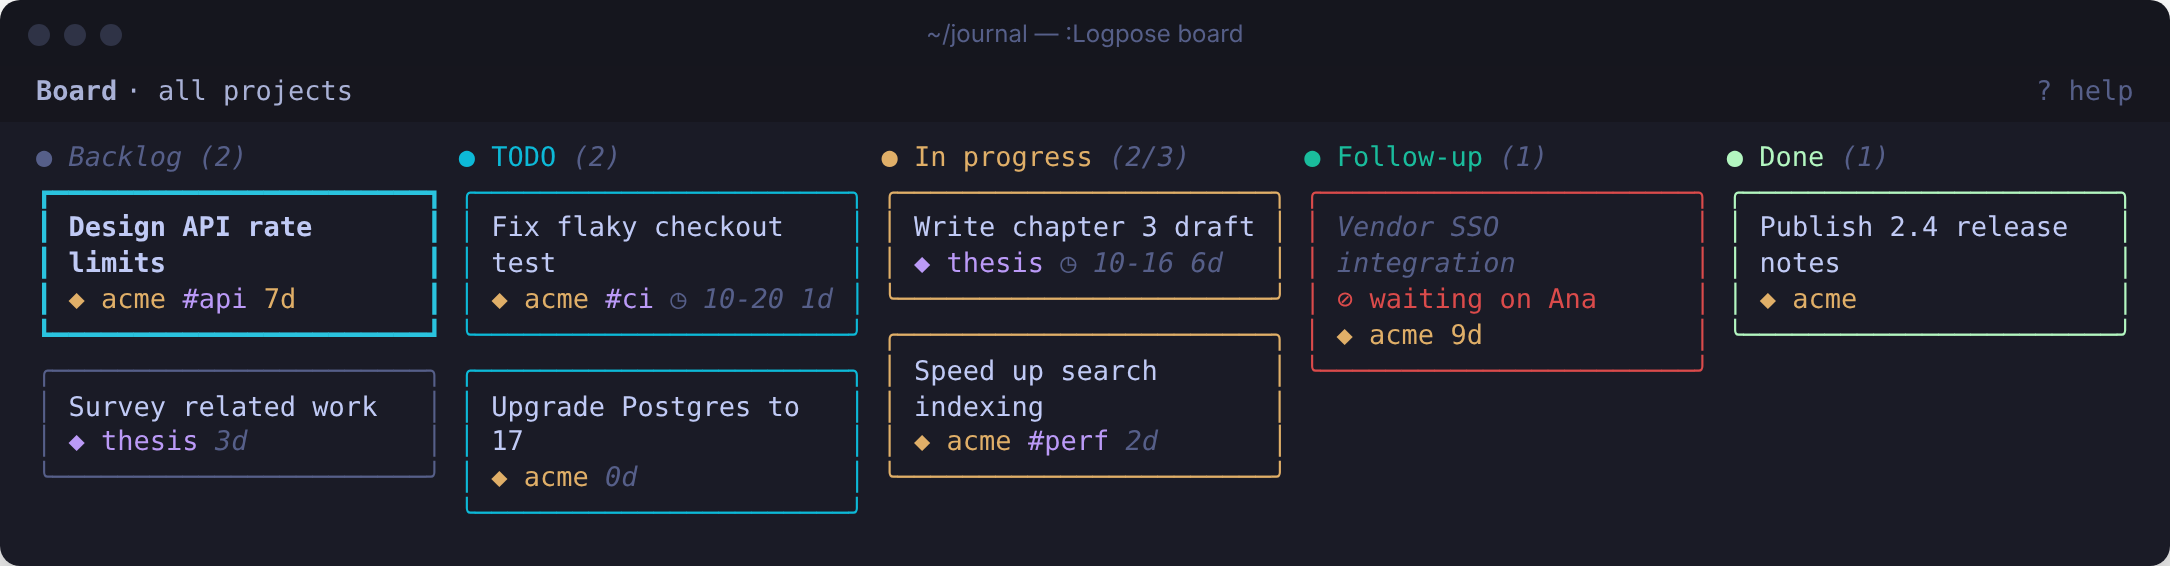
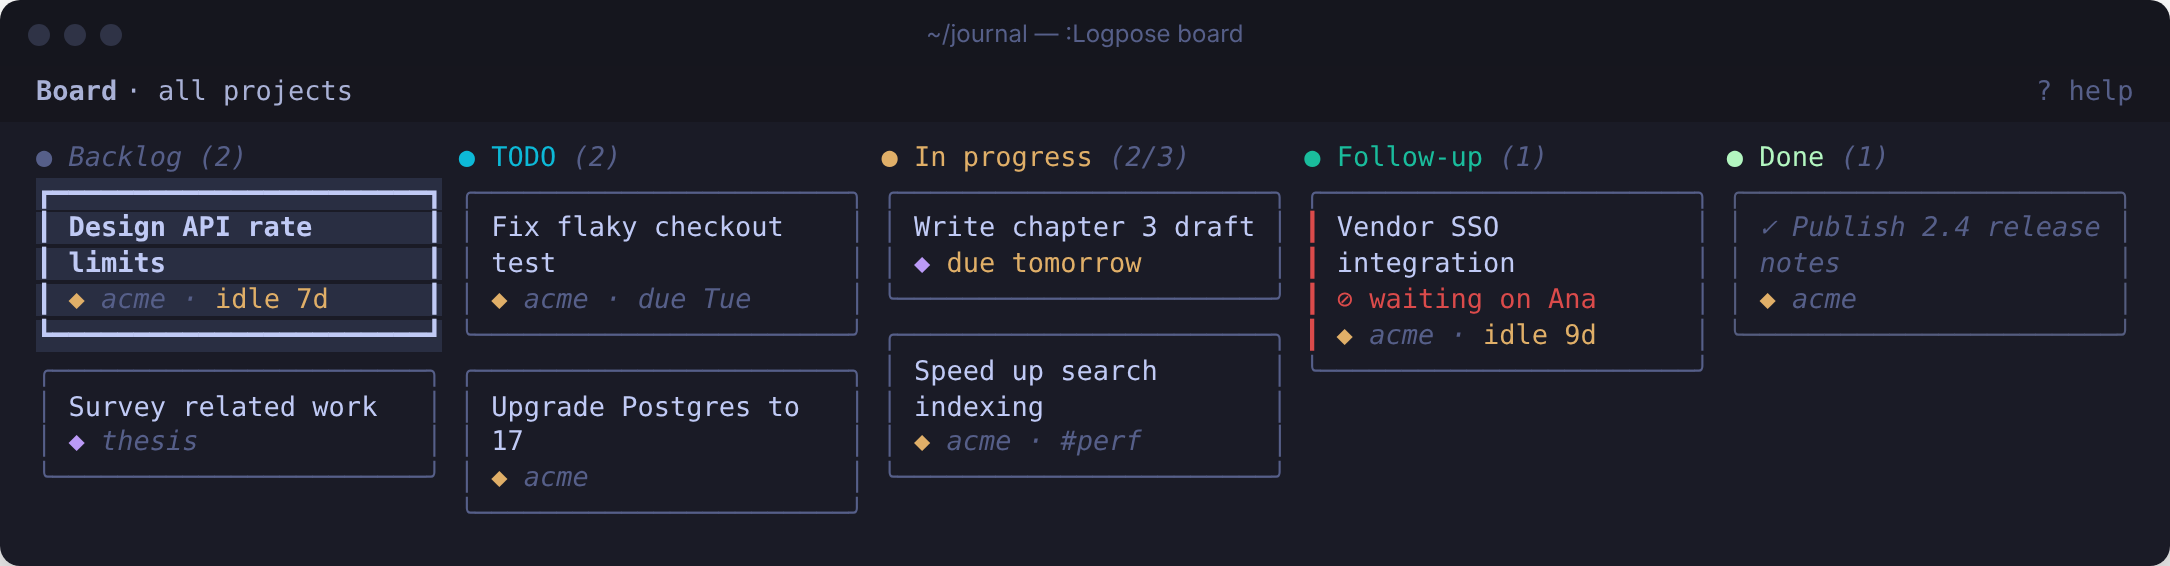
docs: describe the new cards and regenerate the board screenshot

diff --git a/docs/SPEC.md b/docs/SPEC.md
@@ -64,7 +64,7 @@ capture/done, sprint-aware archives and reports.
 
 **Releases.** Annotated tags in `MAJOR.MINOR.PATCH` form (no `v` prefix). Each completed feature
 bumps the minor version (0.1.0 = F0+F1, 0.2.0 = F1.5, 0.3.0 = F1.6, 0.4.0 = F2, 0.5.0 = F2.1, 0.6.0 = F3, 0.7.0 = F4, 0.8.0 = F5, 0.9.0 = F6, 0.10.0 = O1, 0.11.0 = O2, 0.12.0 = O3, 0.13.0 = O4, 0.14.0 = O5, 0.15.0 = O6, 0.16.0 = F7,
-0.17.0 = F8, 0.18.0 = T1, 0.19.0 = live search and previews, 0.20.0 = B1, 0.21.0 = markdownlint-clean notes, 0.22.0 = timestamps, board look and delete, 0.23.0 = peek, scrolling columns, WIP limits and age, 0.23.1 = board resize fixes, 0.24.0 = command menu, statusline, board undo, 0.25.0 = today, keymaps preset, titled notifications, board extras, 0.25.1 = docs rewrite, 0.26.0 = project manager, project completion and board-follows-project fixes, 0.27.0 = project switcher, project pages as registry, moving tasks between projects, merging projects, 0.28.0 = switching opens the board, 0.28.1 = board and projects split into modules, tests 40× faster, 0.28.2 = caching for big journals, 0.29.0 = frontmatter editor, 0.30.0 = capture picks the project, form rework, bulk edits, 0.30.1 = completion menu closes after a choice, 0.30.2 = <CR> accepts from the menu, nvim-cmp off in the form, 0.31.0 = the edit form stays open after saving); fixes bump the patch;
+0.17.0 = F8, 0.18.0 = T1, 0.19.0 = live search and previews, 0.20.0 = B1, 0.21.0 = markdownlint-clean notes, 0.22.0 = timestamps, board look and delete, 0.23.0 = peek, scrolling columns, WIP limits and age, 0.23.1 = board resize fixes, 0.24.0 = command menu, statusline, board undo, 0.25.0 = today, keymaps preset, titled notifications, board extras, 0.25.1 = docs rewrite, 0.26.0 = project manager, project completion and board-follows-project fixes, 0.27.0 = project switcher, project pages as registry, moving tasks between projects, merging projects, 0.28.0 = switching opens the board, 0.28.1 = board and projects split into modules, tests 40× faster, 0.28.2 = caching for big journals, 0.29.0 = frontmatter editor, 0.30.0 = capture picks the project, form rework, bulk edits, 0.30.1 = completion menu closes after a choice, 0.30.2 = <CR> accepts from the menu, nvim-cmp off in the form, 0.31.0 = the edit form stays open after saving, 0.32.0 = card redesign); fixes bump the patch;
 1.0.0 once M3 is done.
 
 ---
@@ -406,6 +406,17 @@ across everything, but meetings, tasks and reports can be kept apart and filtere
   `status`/`project`/`blocked` through `taskfile.set_*` (logged), and moves a meeting to its new
   project's folder (`series`, links via `maintenance.rewrite_links`, the daily `- project:` label,
   the emptied folder). A project page's `project` is refused (rename with `R`).
+- **Card design** (0.32.0, `board/cards.lua`): colour only where it means something. Borders use
+  `LogposeBoardBorder` (`board.border = "column"` restores column colours); the focused card has
+  a heavy border in Normal's foreground plus `LogposeBoardFocusBg` (CursorLine) under its rows,
+  drawn by the view at a low priority so other colours stay on top. `cards.state` decides the
+  look: done (dimmed title with ✓, `LogposeBoardDoneBorder`), blocked (red left edge `┃` and
+  reason; never faded), stale (faded title, `idle Nd` in `LogposeBoardStale`; only once past
+  `board.stale_days`). `cards.details` fits the details line by importance, not by cutting
+  the end: the due text (`cards.due_text`: `overdue Nd`, `due today`/`due tomorrow`, the weekday
+  within a week, else `due D Mon`) and idle time always; then the project (shortened, or only
+  its colour mark below six cells; left off on a one-project board and in rows per project);
+  then whole tags.
 - **Bulk edits** (0.30.0): `v` marks cards on the board (`b.marked`, by file; pruned to visible
   cards on render; `V`/`<Esc>` clear). `H` `L` `1`–`9` `x` `b` `m` `e` act on every marked card as
   one undo step (`actions.targets`, `with_card`). `e` with marks, or `:'<,'>Logpose edit` in a

diff --git a/README.md b/README.md
@@ -187,13 +187,21 @@ where the task will go (`Capture → acme (this repo)`), and so does the message
 that's wrong, `:Logpose edit last` fixes it.
 
 The board has five columns: **Backlog → TODO → In progress → Follow-up → Done**. Each card
-shows:
+shows its title, with the details under it in a quiet colour: `◆ project · due Tue · #tags`.
 
-- the title;
-- `◆ project`, `#tags` and `◷ due date`, with overdue dates in red;
-- `⊘ reason` and a red border when the task is blocked;
-- how long the card has been in its column (`4d`). Cards untouched for a week fade, so
-  forgotten work stands out.
+Colour is kept for what needs your attention:
+
+- **Due dates** read as words: `due Tue`, `due 3 Nov`; `due today` and `due tomorrow` in yellow;
+  `overdue 2d` in red.
+- **Blocked** cards have a red left edge and the reason in red: `⊘ waiting on Ana`.
+- **Untouched** cards (a week by default) fade and say for how long: `idle 9d`. A blocked card
+  doesn't fade.
+- **Done** cards are dimmed, with a `✓`.
+- **The focused card** has a heavy border and a background.
+
+On a board showing one project, cards leave the project out, since it's in the board's title.
+When a card is narrow, the date stays whole, the project name gets shorter and tags are left
+out. `board = { border = "column" }` gives each card its column's colour instead.
 
 In progress has a work-in-progress limit of 3: its header shows `(2/3)`, and the count turns red
 above the limit.
@@ -740,6 +748,7 @@ board = {
   min_column_width = 24,   -- below this width, columns stack vertically
   stale_days = 7,          -- cards untouched this long fade
   collapsed = {},          -- column keys folded when the board opens, e.g. { "done" }
+  border = "neutral",      -- or "column": each card in its column's colour
   icons = "unicode",       -- or "nerd" (Nerd Font) or "ascii"
   compact = false,         -- start with one-line cards (c toggles)
   lanes = false,           -- start with one row per project (s toggles)
@@ -752,10 +761,12 @@ tasks = {
 },
 ```
 
-Colours come from highlight groups linked to your colour scheme's diagnostic colours. Override
-`LogposeBoardColumn1` to `LogposeBoardColumn5`, `LogposeBoardFocus`, `LogposeBoardBlocked`,
-`LogposeBoardOverdue`, `LogposeBoardProject`, `LogposeBoardTag`, `LogposeBoardTitle` or
-`LogposeBoardHint` to change them.
+Colours come from highlight groups linked to your colour scheme. Override
+`LogposeBoardColumn1` to `LogposeBoardColumn5` (column headers), `LogposeBoardBorder`,
+`LogposeBoardFocus`, `LogposeBoardFocusBg`, `LogposeBoardMeta` (card details),
+`LogposeBoardBlocked`, `LogposeBoardOverdue`, `LogposeBoardDueSoon`, `LogposeBoardStale`,
+`LogposeBoardDone`, `LogposeBoardMarked`, `LogposeBoardProject`, `LogposeBoardTag`,
+`LogposeBoardTitle` or `LogposeBoardHint` to change them.
 
 </details>
 
